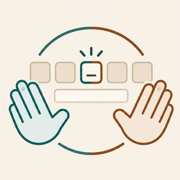
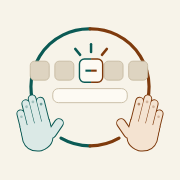
Les mains redessinées : un seul contour, et l'icône avec
La main était une paume dessinée PAR-DESSUS ses doigts : la ligne haute de la
paume barrait la silhouette. Elle est maintenant tracée en deux couches de la
même forme — la sombre épaissie par le trait, la pâle par-dessus — donc les
doigts fondent dans la paume et l'écart entre deux doigts devient un simple
trait, sans qu'aucun contour interne ne traverse la main.

viewBox, API et miroir gauche/droite inchangés : aucun appelant ne bouge.

Les trois icônes sont régénérées avec ces mains par scripts/icone.mjs, dont la
sortie est versionnée. Les trois tailles sortent du même SVG : redimensionner
le PNG ferait baver les traits fins de l'anneau.

Changed region(s): [[0.0278, 0.1389, 0.9722, 0.8611]]

diff --git a/src/ui/MainSchematique.tsx b/src/ui/MainSchematique.tsx
@@ -5,10 +5,18 @@ import type { Main } from '../core/layouts';
  * Les photographies sont réservées aux quatre pastilles (addendum) ;
  * partout ailleurs — V3 et overlay d'aide — le schématique reste la règle.
  *
- * Les quatre doigts sont dessinés SÉPARÉMENT et dépassent franchement de la
- * paume : collés et rentrés, la silhouette se lisait comme une tasse
- * (itération 002, point 15).
+ * Dessinée en DEUX COUCHES de la même forme : la sombre, épaissie par le trait,
+ * puis la pâle par-dessus. Les doigts et la paume fusionnent donc en un seul
+ * contour continu, et l'écart entre deux doigts devient un simple trait — ce
+ * qu'un contour par doigt posé SUR une paume ne savait pas faire (la ligne
+ * haute de la paume barrait la main).
  */
+
+/** Épaisseur du contour, en unités du viewBox. */
+const TRAIT = 3.6;
+/** Ligne où les doigts s'enfoncent dans la paume : jamais visible. */
+const RACINE = 96;
+
 export function MainSchematique({
   cote,
   largeur = 120,
@@ -21,32 +29,42 @@ export function MainSchematique({
   const teinte = cote === 'gauche' ? 'var(--teal-vif)' : 'var(--orange-vif)';
   const pale = cote === 'gauche' ? 'var(--teal-pale)' : 'var(--orange-pale)';
 
-  /** x, sommet au repos, sommet quand l'index est tendu, largeur du doigt */
+  /* x, sommet au repos, sommet quand l'index est tendu, largeur du doigt.
+     Les quatre doigts dépassent franchement de la paume : collés et rentrés,
+     la silhouette se lisait comme une tasse (itération 002, point 15). */
   const doigts = [
-    { x: 31, repos: 40, tendu: 46, l: 12 }, // auriculaire
-    { x: 46, repos: 28, tendu: 36, l: 13 }, // annulaire
-    { x: 61, repos: 24, tendu: 32, l: 13.5 }, // majeur
+    { x: 21, repos: 48, tendu: 48, l: 12.5 }, // auriculaire
+    { x: 35, repos: 32, tendu: 32, l: 13 }, // annulaire
+    { x: 49, repos: 26, tendu: 26, l: 13 }, // majeur
+    { x: 63, repos: 34, tendu: 12, l: 13 }, // index
   ];
-  const index = { x: 76, repos: 30, tendu: 8, l: 13.5 };
 
-  const doigt = (d: { x: number; l: number }, sommet: number, actif: boolean) => (
-    <g key={d.x}>
-      <path
-        d={`M${d.x} 84 L${d.x} ${sommet}`}
-        stroke={teinte}
-        strokeWidth={d.l + 4}
-        strokeLinecap="round"
-        fill="none"
-      />
-      <path
-        d={`M${d.x} 82 L${d.x} ${sommet + 1}`}
-        stroke={pale}
-        strokeWidth={d.l}
-        strokeLinecap="round"
-        fill="none"
-      />
-      {/* ongle : le repère qui dit « c'est un doigt » et donne son sens */}
-      <circle cx={d.x} cy={sommet + 6} r={d.l * 0.26} fill={teinte} opacity={actif ? 0.5 : 0.28} />
+  /* Une couche = toute la main d'une seule couleur. Sombre avec le trait,
+     pâle sans : la différence des deux EST le contour. */
+  const couche = (couleur: string, trait: number) => (
+    <g
+      fill={couleur}
+      stroke={couleur}
+      strokeWidth={trait}
+      strokeLinejoin="round"
+      strokeLinecap="round"
+    >
+      {doigts.map((d) => (
+        <line
+          key={d.x}
+          x1={d.x}
+          y1={RACINE}
+          x2={d.x}
+          y2={tendu ? d.tendu : d.repos}
+          strokeWidth={d.l + trait}
+        />
+      ))}
+      {/* Pouce du côté de l'index : main à plat vue de dessus, le pouce d'une
+          main gauche pointe vers l'INTÉRIEUR du clavier, pas vers l'extérieur. */}
+      <line x1={69} y1={99} x2={87} y2={83} strokeWidth={15 + trait} />
+      {/* paume : son flanc part exactement au bord de l'auriculaire — décalé,
+          il laissait un décroché au raccord — puis s'évase vers le talon. */}
+      <path d="M14.75 72 L13.6 100 Q16 122 42 125 Q70 122 70 96 L70 72 Z" />
     </g>
   );
 
@@ -57,35 +75,20 @@ export function MainSchematique({
       style={{ transform: cote === 'droite' ? 'scaleX(-1)' : undefined }}
       aria-hidden="true"
     >
-      {doigts.map((d) => doigt(d, tendu ? d.tendu : d.repos, false))}
-      {doigt(index, tendu ? index.tendu : index.repos, true)}
-
-      {/* paume : plus large aux jointures qu'au poignet, coins nettement arrondis */}
-      <path
-        d="M23 74 Q20 108 32 120 Q50 130 70 122 Q84 114 85 96 L85 72 Q54 64 23 74 Z"
-        fill={pale}
-        stroke={teinte}
-        strokeWidth="3.4"
-        strokeLinejoin="round"
-      />
-      {/* Pouce du côté de l'index : main à plat vue de dessus, le pouce d'une
-          main gauche pointe vers l'INTÉRIEUR du clavier, pas vers l'extérieur. */}
-      <path
-        d="M76 84 Q93 88 92 101 Q89 115 71 109"
-        fill={pale}
-        stroke={teinte}
-        strokeWidth="3.4"
-        strokeLinecap="round"
-        strokeLinejoin="round"
-      />
-      {/* jointures : quatre petits creux qui donnent l'échelle de la main */}
-      <path
-        d="M31 78 v5 M46 76 v5 M61 76 v5 M76 78 v5"
-        stroke={teinte}
-        strokeWidth="2.4"
-        strokeLinecap="round"
-        opacity="0.4"
-      />
+      {couche(teinte, TRAIT)}
+      {couche(pale, 0)}
+      {/* ongle : le repère qui dit « c'est un doigt » et donne son sens.
+          Celui de l'index est plus marqué — c'est le doigt que la leçon vise. */}
+      {doigts.map((d, i) => (
+        <circle
+          key={d.x}
+          cx={d.x}
+          cy={(tendu ? d.tendu : d.repos) + 6}
+          r={d.l * 0.2}
+          fill={teinte}
+          opacity={i === doigts.length - 1 ? 0.5 : 0.28}
+        />
+      ))}
     </svg>
   );
 }
